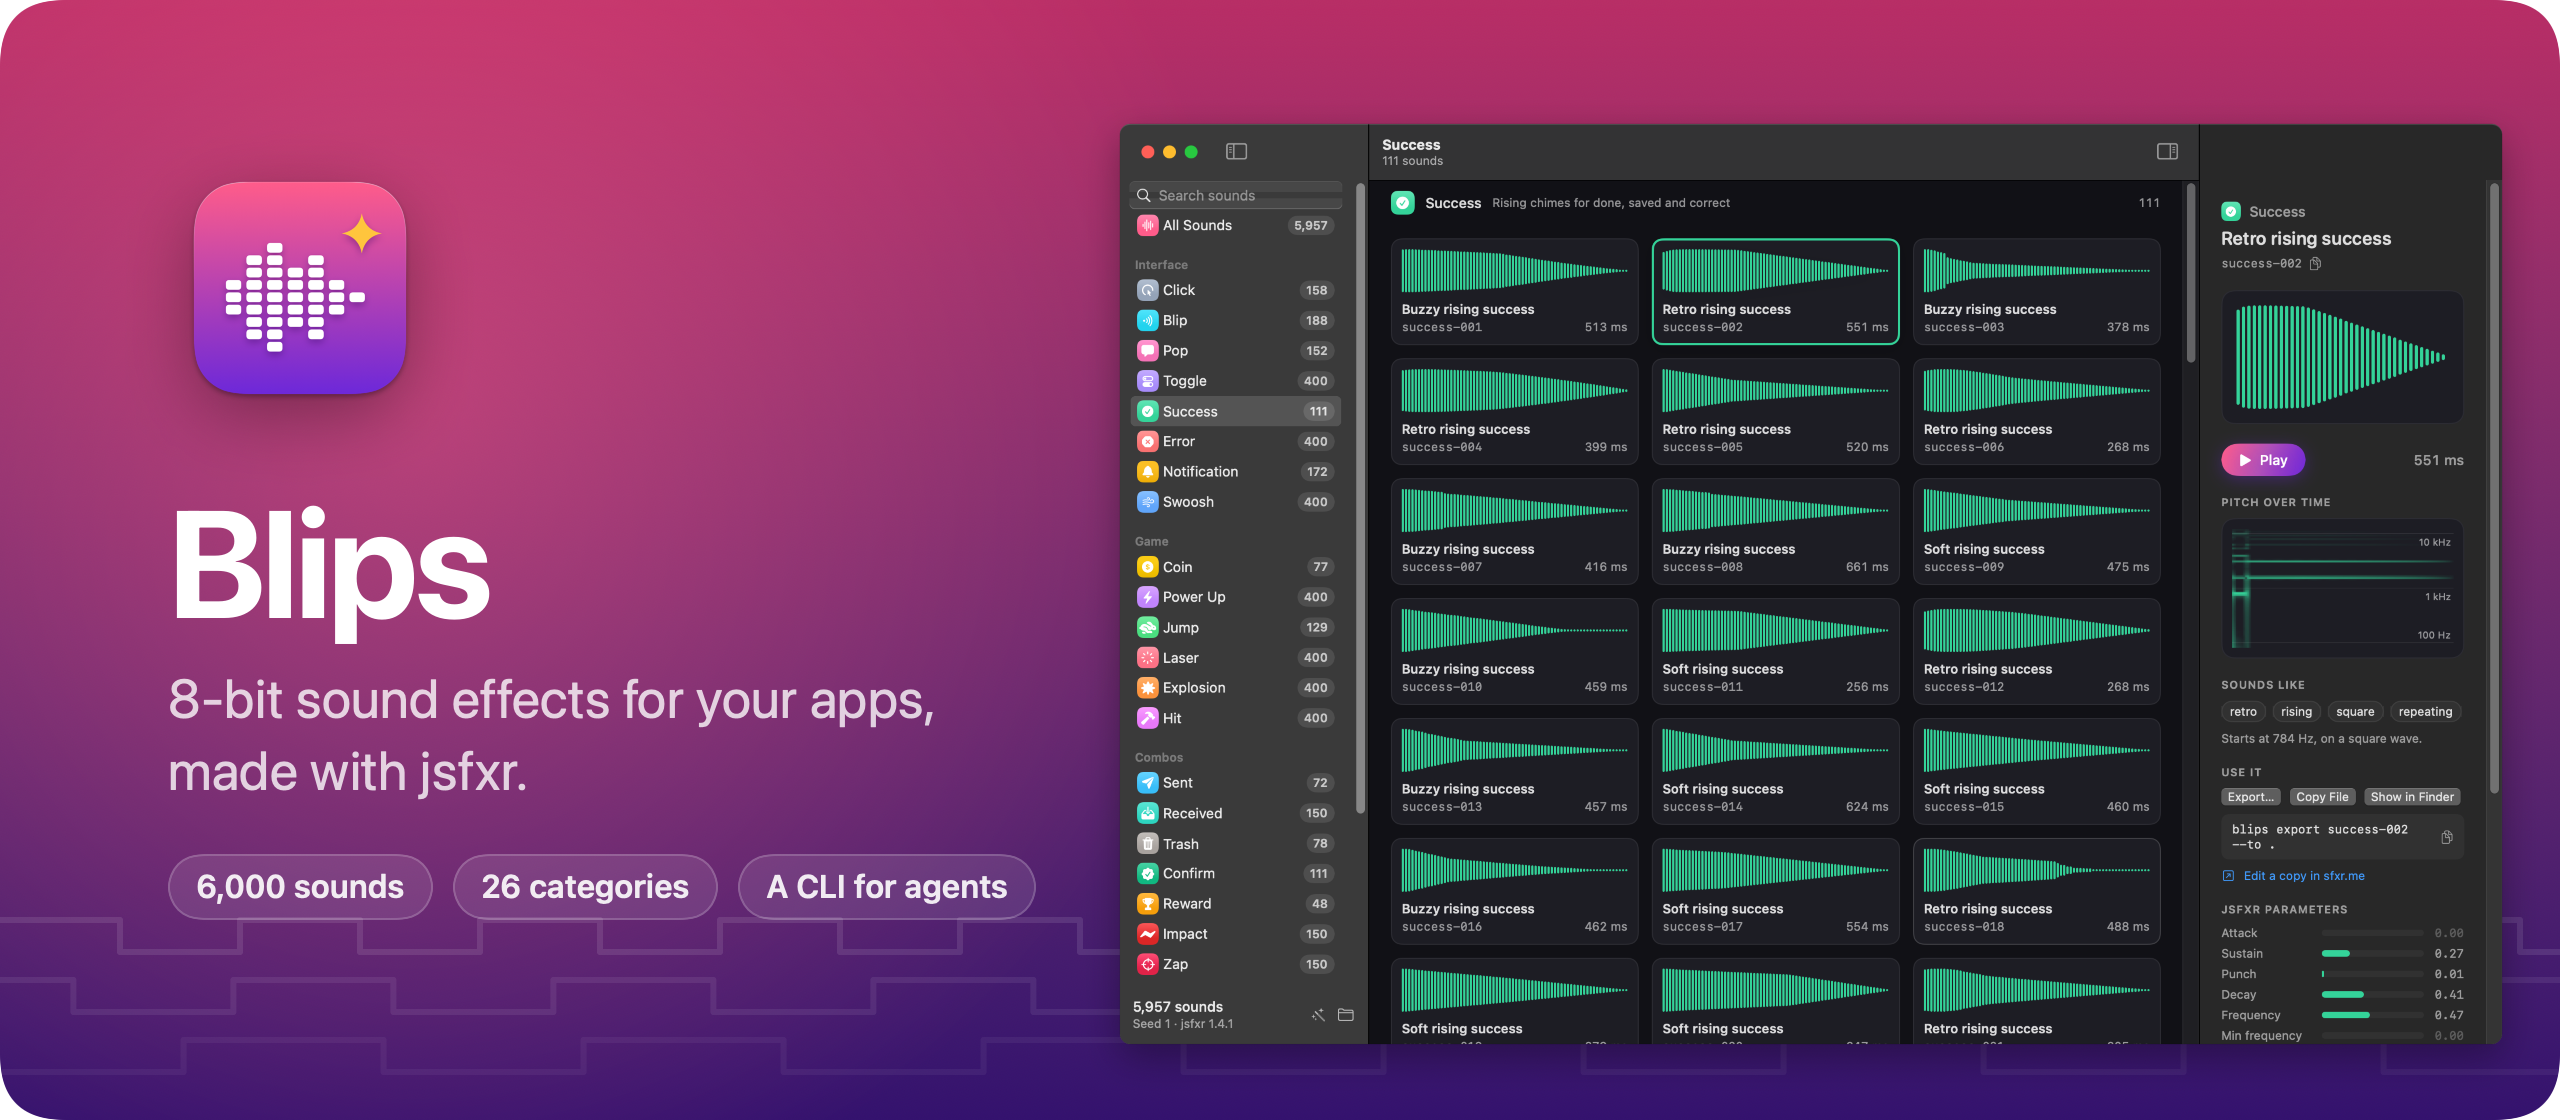
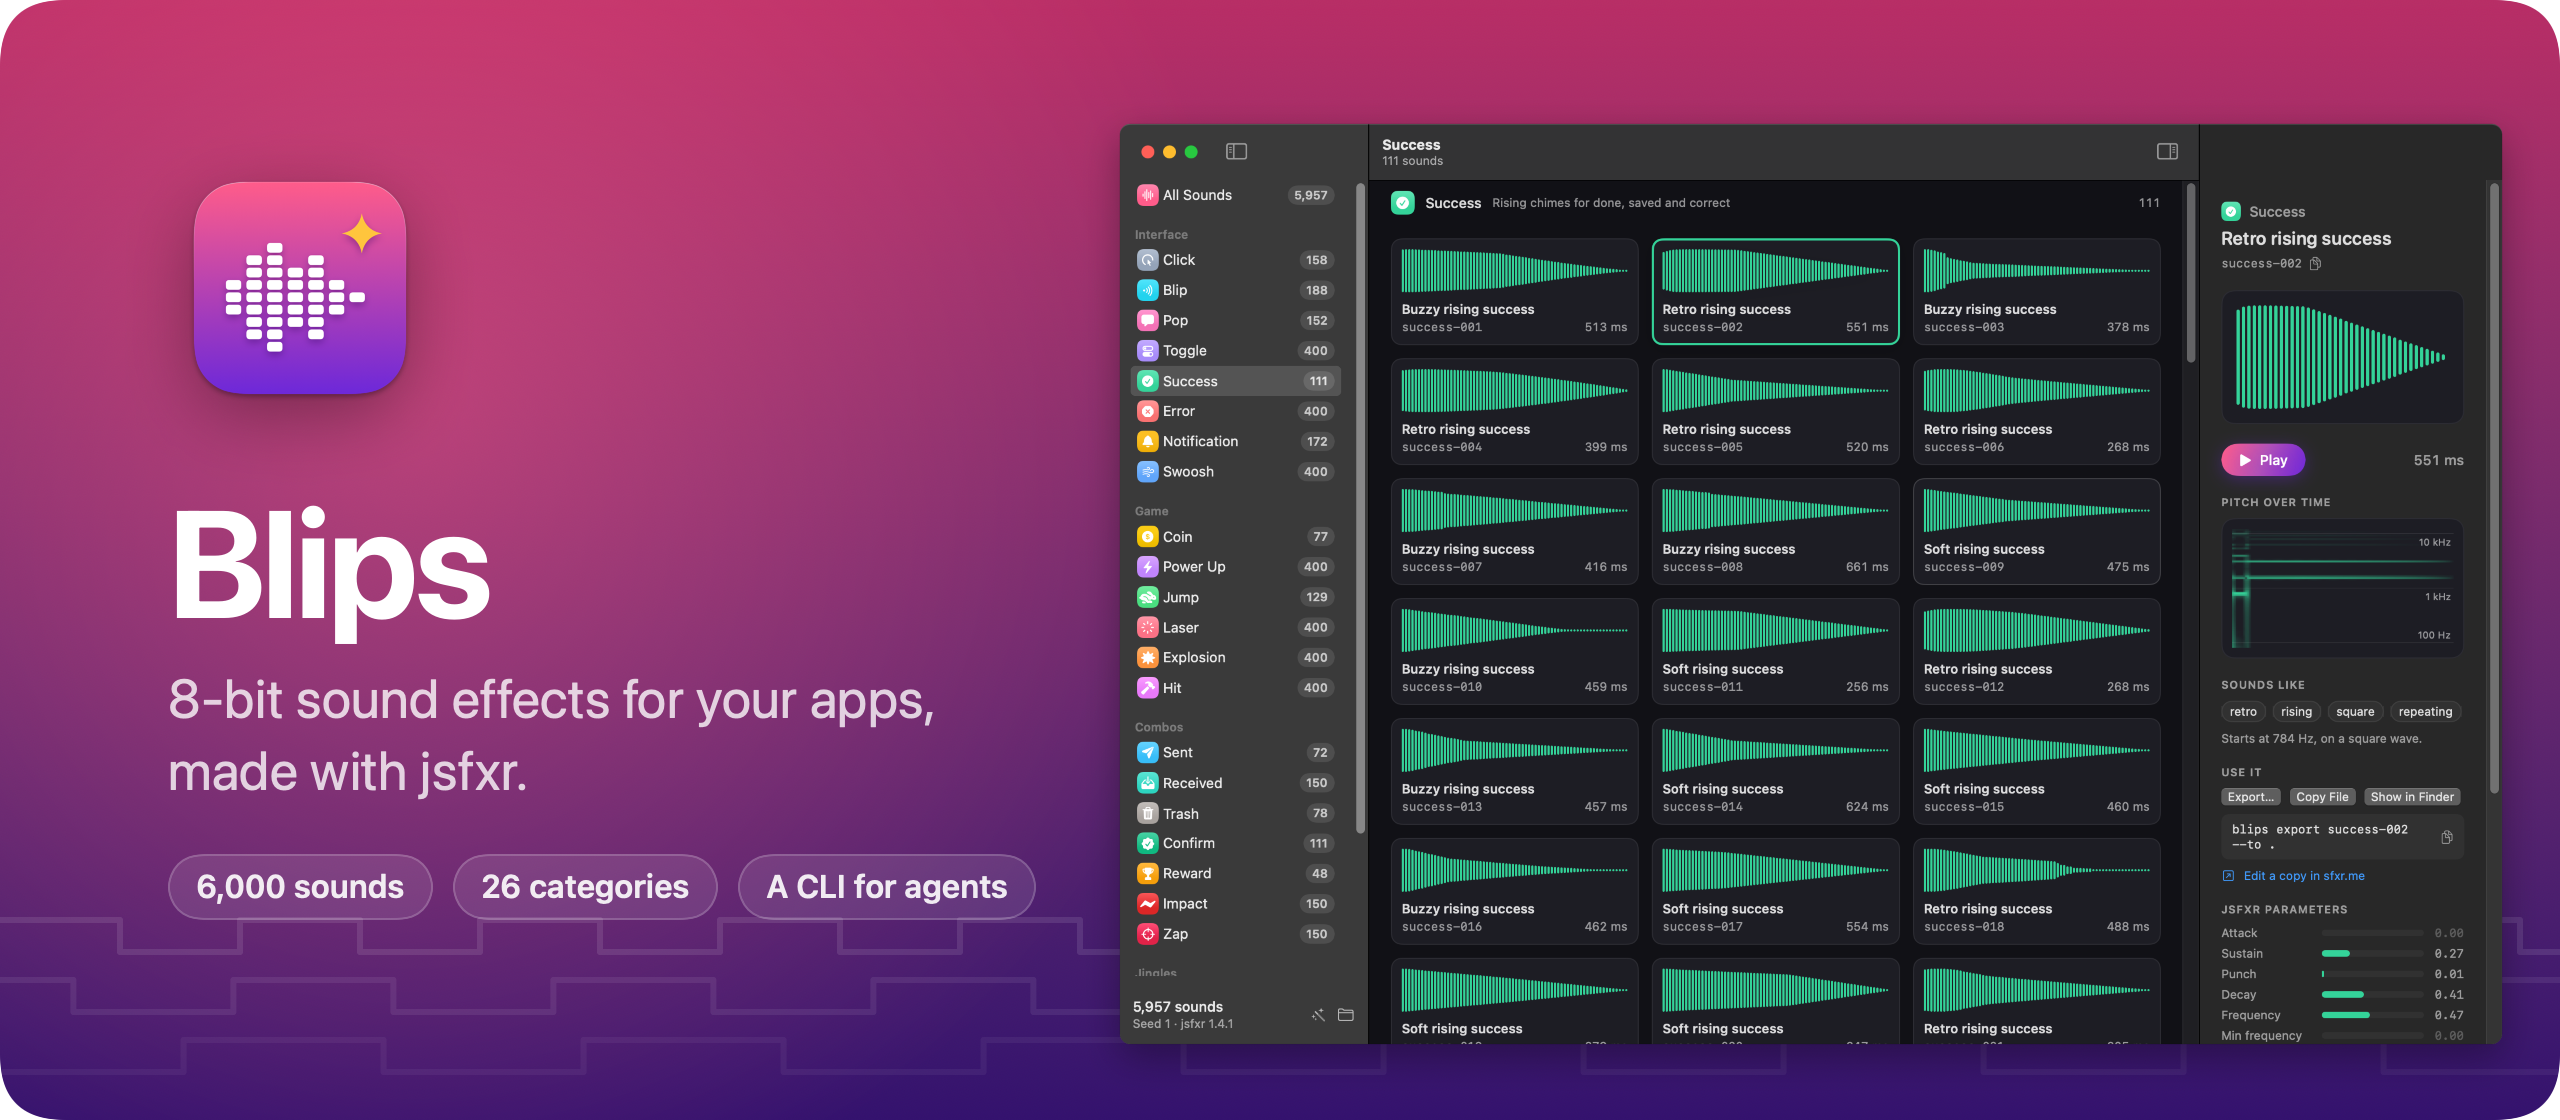
Remove the search field from the app

Changed region(s): [[0.4375, 0.1562, 0.5312, 0.875]]

diff --git a/Sources/BlipsApp/AppModel.swift b/Sources/BlipsApp/AppModel.swift
@@ -20,9 +20,6 @@ final class AppModel {
   var sidebar: SidebarItem? = .all {
     didSet { refresh() }
   }
-  var search = "" {
-    didSet { refresh() }
-  }
   var selectedID: Sound.ID?
   private(set) var playingID: Sound.ID?
   private(set) var generation: Generation?
@@ -30,8 +27,8 @@ final class AppModel {
   var showsGenerateSheet = false
   var errorMessage: String?
 
-  /// The sounds shown, and the same sounds grouped by category, worked out when the library,
-  /// the sidebar or the search change, not on every redraw: a library holds thousands of sounds.
+  /// The sounds shown, and the same sounds grouped by category, worked out when the library or
+  /// the sidebar change, not on every redraw: a library holds thousands of sounds.
   private(set) var sounds: [Sound] = []
   private(set) var sections: [(category: SoundCategory, sounds: [Sound])] = []
   private(set) var counts: [String: Int] = [:]
@@ -82,7 +79,7 @@ final class AppModel {
       sections = []
       return
     }
-    sounds = library.sounds(category: category, matching: search)
+    sounds = library.sounds(category: category)
     let grouped = Dictionary(grouping: sounds, by: \.category)
     sections = library.categories.compactMap { category in
       grouped[category.id].map { (category, $0) }
@@ -107,7 +104,6 @@ final class AppModel {
   func show(_ id: Sound.ID) {
     guard let sound = index[id] else { return }
     if !sounds.contains(where: { $0.id == id }) {
-      search = ""
       sidebar = .category(sound.category)
     }
     select(sound)

diff --git a/Sources/BlipsApp/ContentView.swift b/Sources/BlipsApp/ContentView.swift
@@ -23,10 +23,6 @@ struct ContentView: View {
           ) {
             GenerateButton()
           }
-        } else if model.sounds.isEmpty {
-          EmptyState(symbol: "magnifyingglass", title: "No sounds match", message: "Try other words, or look in All Sounds.") {
-            EmptyView()
-          }
         } else {
           SoundGrid()
         }
@@ -50,7 +46,6 @@ struct ContentView: View {
         }
       }
     }
-    .searchable(text: $model.search, placement: .sidebar, prompt: "Search sounds")
     .sheet(isPresented: $model.showsGenerateSheet) {
       GenerateSheet()
     }

diff --git a/Sources/BlipsCLI/Capabilities.swift b/Sources/BlipsCLI/Capabilities.swift
@@ -51,6 +51,13 @@ extension Commands {
     ],
     changelog: [
       Manifest.Release(
+        version: "1.1.0",
+        date: "2026-10-05",
+        changes: [
+          "The app no longer has a search field. The command didn't change: blips list --search still finds sounds.",
+        ]
+      ),
+      Manifest.Release(
         version: "1.0.0",
         date: "2026-10-05",
         changes: [

diff --git a/Sources/BlipsCore/Version.swift b/Sources/BlipsCore/Version.swift
@@ -1,4 +1,4 @@
 public enum Blips {
-  public static let version = "1.0.0"
+  public static let version = "1.1.0"
   public static let bundleID = "com.flaviocopes.blips"
 }

diff --git a/AGENTS.md b/AGENTS.md
@@ -17,7 +17,7 @@ A Swift package with no Xcode project and no Swift dependencies. jsfxr runs insi
   - `Library.swift` has `Sound`, `Part` (a library sound in a combo, or a note in a jingle), `Library` (lookup and filtering) and `LibraryStore`.
   - `WaveFile` writes and reads 16-bit WAV files, `Waveform` makes the peaks the app draws, and `Spectrogram` measures pitch over time with the Goertzel algorithm on log-spaced bands, for the inspector.
 - `Sources/BlipsCLI`: the `blips` command. `BlipsCommand.swift` parses arguments and prints help, `Commands.swift` has each command, `Capabilities.swift` has the agent manifest.
-- `Sources/BlipsApp`: the SwiftUI app. `AppModel` holds the library, the selection and playback (`AVAudioPlayer`), and caches the waveforms and spectrograms. It works out the sounds shown, their sections and an index by ID only when the library, the sidebar or the search change, since redraws would otherwise filter thousands of sounds each time. `ContentView` has the split view, the sidebar, its footer with the seed, and the Generate sheet, which makes the main library, a new one from a random seed, or one from a seed you type. `SoundGrid` has the tiles, the keyboard and dragging out, and `SoundInspector` the selected sound with its waveform, spectrogram, tags and ways to use it, then jsfxr's parameters drawn as sliders, what a combo is made of (`ComboTimeline`, with rows that play each part) or the notes of a jingle (`PianoRoll`). `Theme.swift` has the colors, and a color and SF Symbol for each category. `CommandLineTool` and `AgentSkill` are the menu items that link the command into `~/.local/bin` and install the skill. `AppUpdater.swift` checks GitHub Releases for updates and installs them. It's a copy of a template shared by several apps, so don't edit it here.
+- `Sources/BlipsApp`: the SwiftUI app. `AppModel` holds the library, the selection and playback (`AVAudioPlayer`), and caches the waveforms and spectrograms. It works out the sounds shown, their sections and an index by ID only when the library or the sidebar change, since redraws would otherwise filter thousands of sounds each time. `ContentView` has the split view, the sidebar, its footer with the seed, and the Generate sheet, which makes the main library, a new one from a random seed, or one from a seed you type. `SoundGrid` has the tiles, the keyboard and dragging out, and `SoundInspector` the selected sound with its waveform, spectrogram, tags and ways to use it, then jsfxr's parameters drawn as sliders, what a combo is made of (`ComboTimeline`, with rows that play each part) or the notes of a jingle (`PianoRoll`). `Theme.swift` has the colors, and a color and SF Symbol for each category. `CommandLineTool` and `AgentSkill` are the menu items that link the command into `~/.local/bin` and install the skill. `AppUpdater.swift` checks GitHub Releases for updates and installs them. It's a copy of a template shared by several apps, so don't edit it here.
 - `skill/blips/SKILL.md`: the agent skill. `build-app.sh` puts it in the app, and the app copies it to `~/.agents/skills/blips` from the menu, and again on launch when an update changed it.
 - `Scripts/`: `build-app.sh`, `build-release.sh`, `Blips.entitlements`, `render-icon.swift`, `render-banner.swift`, `screenshot.sh` with `screenshot.swift`, and `update-jsfxr.sh`.
 - `Tests/BlipsCoreTests`: Swift Testing tests for the core.

diff --git a/README.md b/README.md
@@ -6,7 +6,7 @@ I make a lot of small apps, and I wanted sounds for them that I could pick in a 
 
 ## Download
 
-Get `Blips-1.0.0.zip` from the [latest release](https://github.com/flaviocopes/blips/releases/latest), unzip it, and drag Blips to your Applications folder. It runs on macOS 14 Sonoma or later, on Apple silicon and Intel Macs.
+Get `Blips-1.1.0.zip` from the [latest release](https://github.com/flaviocopes/blips/releases/latest), unzip it, and drag Blips to your Applications folder. It runs on macOS 14 Sonoma or later, on Apple silicon and Intel Macs.
 
 The first time you open it, click **Generate the Library**. Blips makes every sound on your Mac, which takes less than half a minute, and they take about 300 MB.
 
@@ -35,7 +35,7 @@ The sidebar has 26 categories in four groups:
 - **Combos**, two sounds stacked or one after the other: sent (a swoosh into a pop), received, trash, confirm, reward, impact and zap.
 - **Jingles**, short tunes on a scale: fanfare, game over, countdown, startup and alarm.
 
-Click a sound to play it. The arrow keys move to the next one and play it, so you can go through a category quickly, and Space plays or stops. Search finds sounds by name, tag or ID, like `soft rising` or `success-003`.
+Click a sound to play it. The arrow keys move to the next one and play it, so you can go through a category quickly, and Space plays or stops.
 
 <picture>
   <source media="(prefers-color-scheme: dark)" srcset="docs/screenshot-dark.png" />
